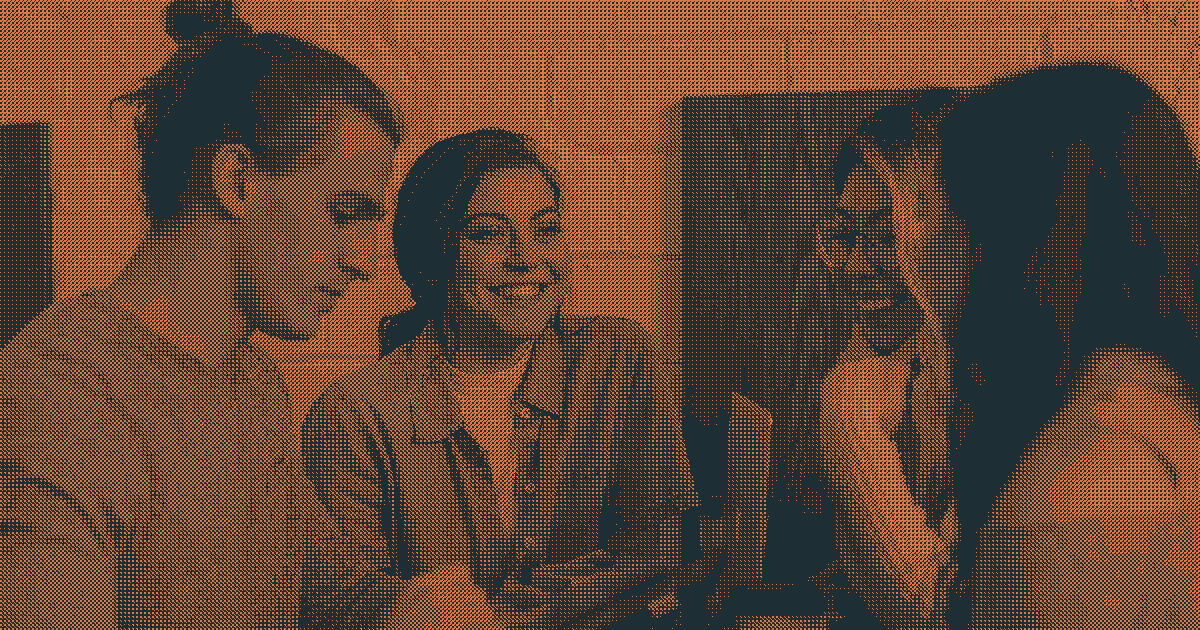
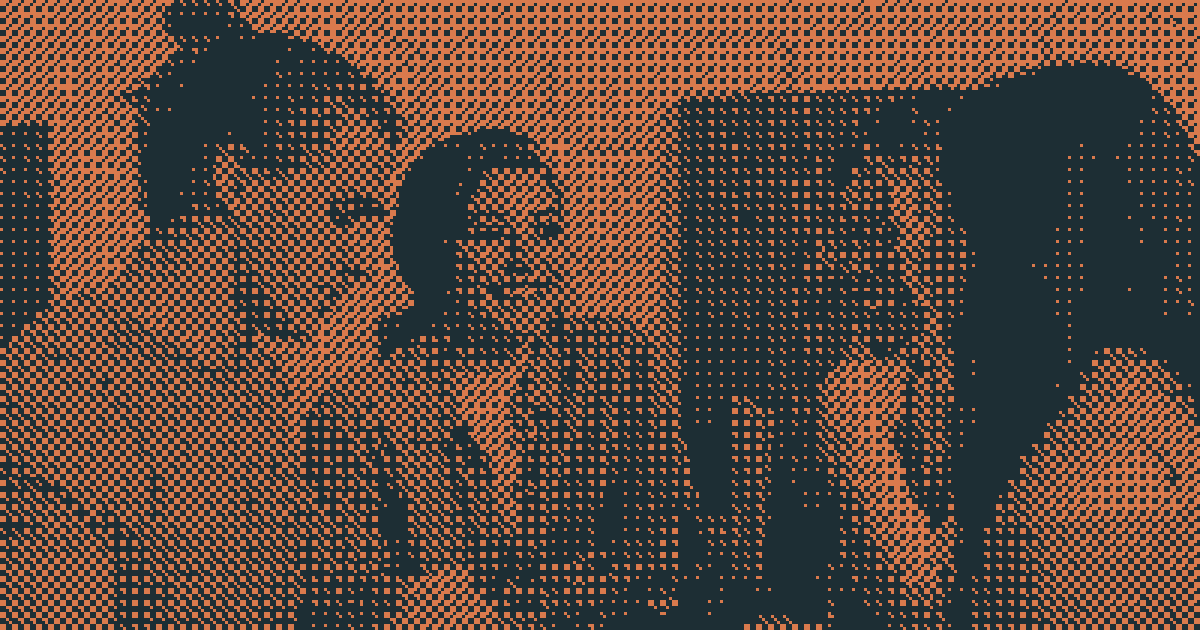
feat: coarser block-dithered covers + terracotta fallback gradient
Dither at a reduced resolution (width/pixel-size x height/pixel-size,
default pixel-size=3) then nearest-neighbor upscale, so each dithered
"pixel" renders as a crisp block instead of one dot per output pixel —
a visibly chunkier, more retro halftone grid. Configurable via
--pixel-size. Regenerated all 5 existing article covers with the new
default.

Adds a --color-terracotta token to public/css/main.css (same #d97a4d
used as the dither's light tone) and swaps ArticleCard.vue's no-cover
fallback gradient from a monochrome porcelain-800->950 tint to
terracotta->porcelain-950, so cards without a real cover still carry
the same warm/cool duotone identity as the dithered ones.

diff --git a/app/components/App/ArticleCard.vue b/app/components/App/ArticleCard.vue
@@ -1,7 +1,7 @@
 <template>
   <NuxtLink :to="article.path" class="group">
     <article
-      class="from-porcelain-800 to-porcelain-950 relative overflow-hidden rounded-xl bg-gradient-to-br"
+      class="from-terracotta to-porcelain-950 relative overflow-hidden rounded-xl bg-gradient-to-br"
     >
       <!-- Background image. Only rendered when the article declares a cover in
            its frontmatter: this is a static build, so a guessed path for an

diff --git a/public/css/main.css b/public/css/main.css
@@ -45,6 +45,11 @@
   --color-porcelain-800: #2f525d;
   --color-porcelain-900: #2b464f;
   --color-porcelain-950: #1d2e34;
+
+  /* Warm accent at roughly porcelain's complementary hue (~192° -> ~19°) —
+     used as the light tone in dithered article covers (see
+     scripts/generate-cover.mjs) and echoed here for the no-cover fallback. */
+  --color-terracotta: #d97a4d;
 }
 
 .prose {
